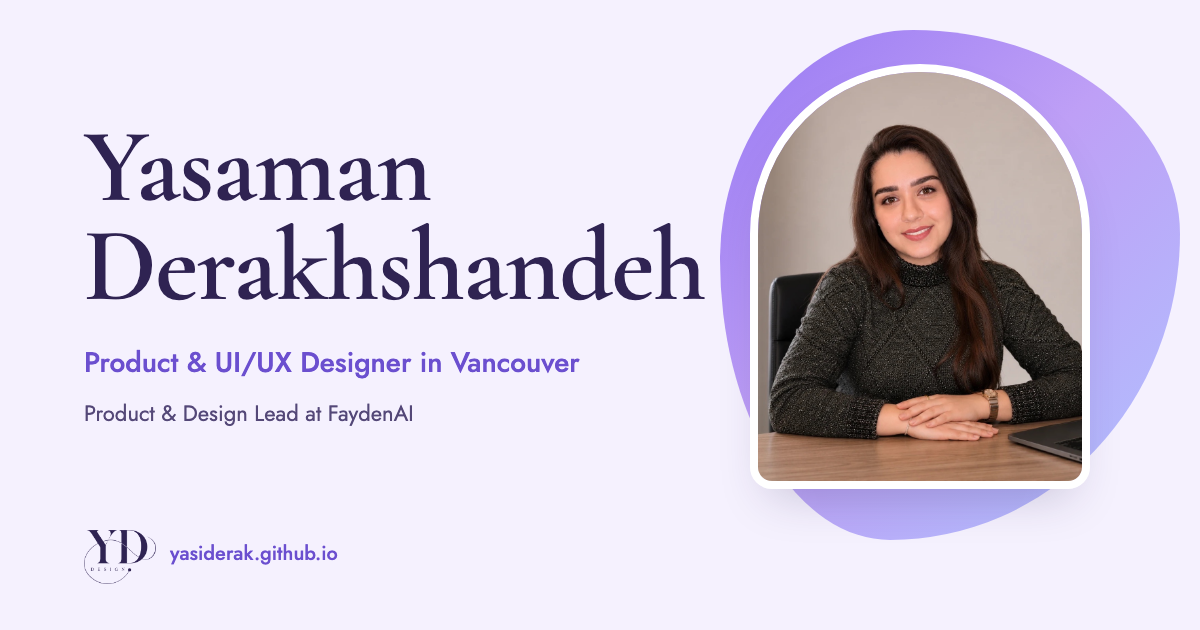
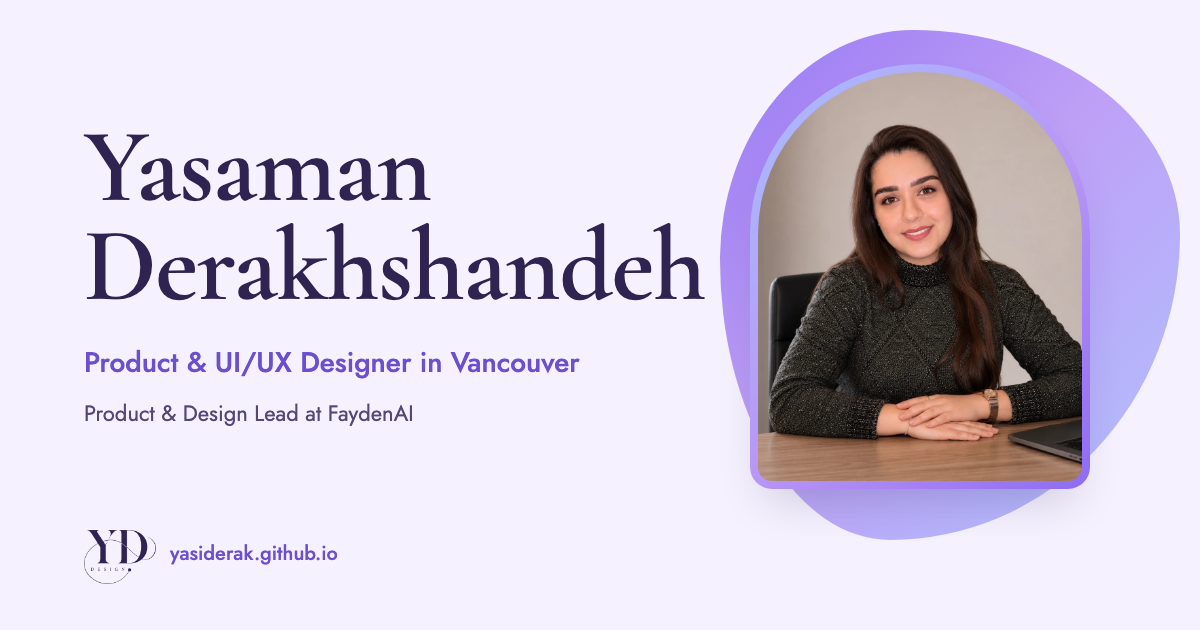
Gradient photo frame matching the morphing shape

Changed region(s): [[0.6167, 0.2413, 0.925, 0.7841], [0.6475, 0.0905, 0.8633, 0.2413], [0.8633, 0.181, 0.8942, 0.2714]]

diff --git a/src/components/Hero.jsx b/src/components/Hero.jsx
@@ -53,10 +53,10 @@ function ArchPortrait({ src }) {
         <div className="morph morph-strong h-full w-full opacity-90" />
       </div>
       <div
-        className="relative border-[6px] border-white bg-lilac-200 shadow-[var(--shadow-lift)] transition-transform duration-500 ease-out"
+        className="morph-frame relative p-[7px] shadow-[var(--shadow-lift)] transition-transform duration-500 ease-out"
         style={{ borderRadius: ARCH, transform: 'translate3d(calc(var(--mx) * 14px), calc(var(--my) * 12px), 0)' }}
       >
-        <div className="aspect-[4/5] overflow-hidden" style={{ borderRadius: ARCH }}>
+        <div className="aspect-[4/5] overflow-hidden bg-lilac-200" style={{ borderRadius: ARCH }}>
           {src && <img src={src} alt={`Portrait of ${profile.name}`} decoding="async" className="h-full w-full object-cover" />}
         </div>
       </div>

diff --git a/src/styles.css b/src/styles.css
@@ -177,6 +177,11 @@
 .morph-strong {
   background: linear-gradient(135deg, #8e6cf2 0%, #b896f5 45%, #a9bdff 100%);
 }
+/* The photo frame uses the same gradient, turned the other way round,
+   so it matches the shape but still reads where the two overlap. */
+.morph-frame {
+  background: linear-gradient(315deg, #8e6cf2 0%, #b896f5 45%, #a9bdff 100%);
+}
 .morph-soft {
   background: linear-gradient(135deg, #e2d7fb 0%, #c9b8f6 100%);
 }
